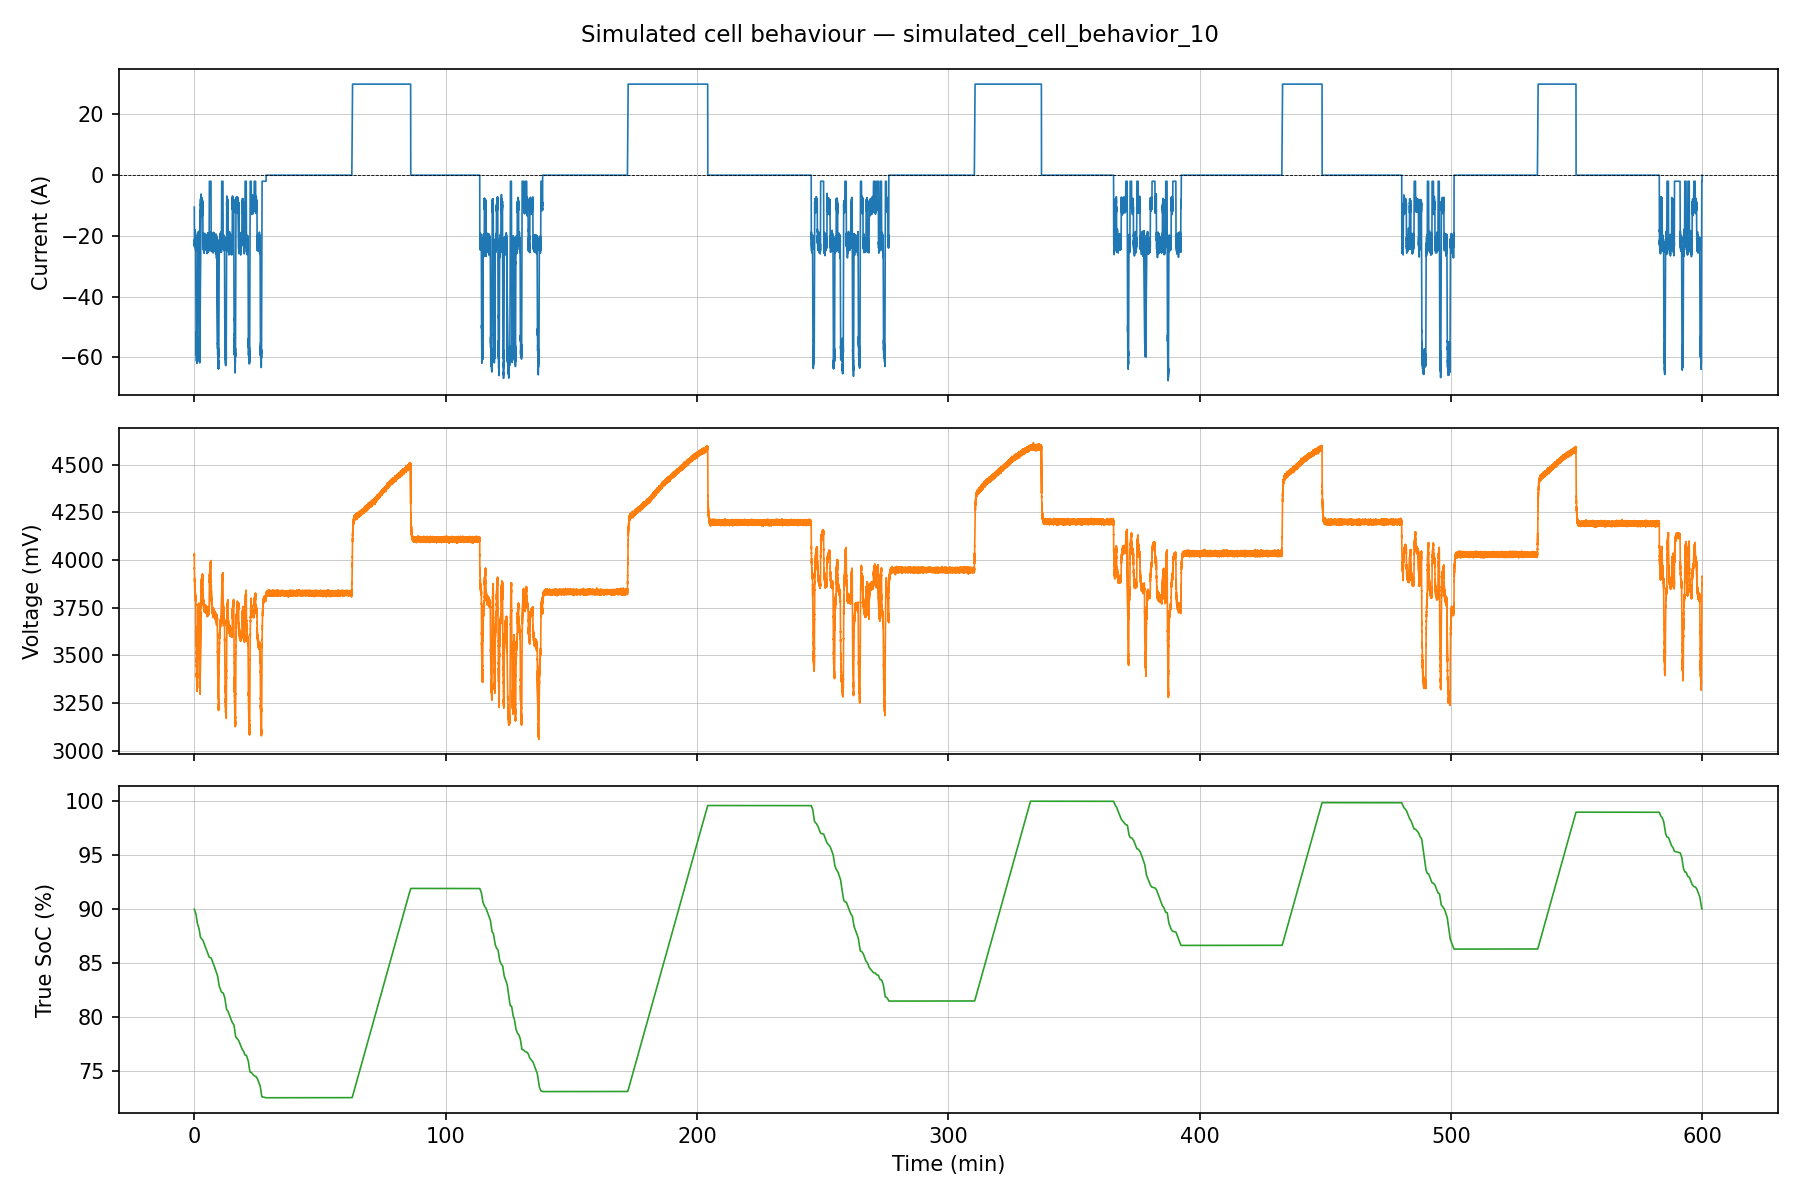
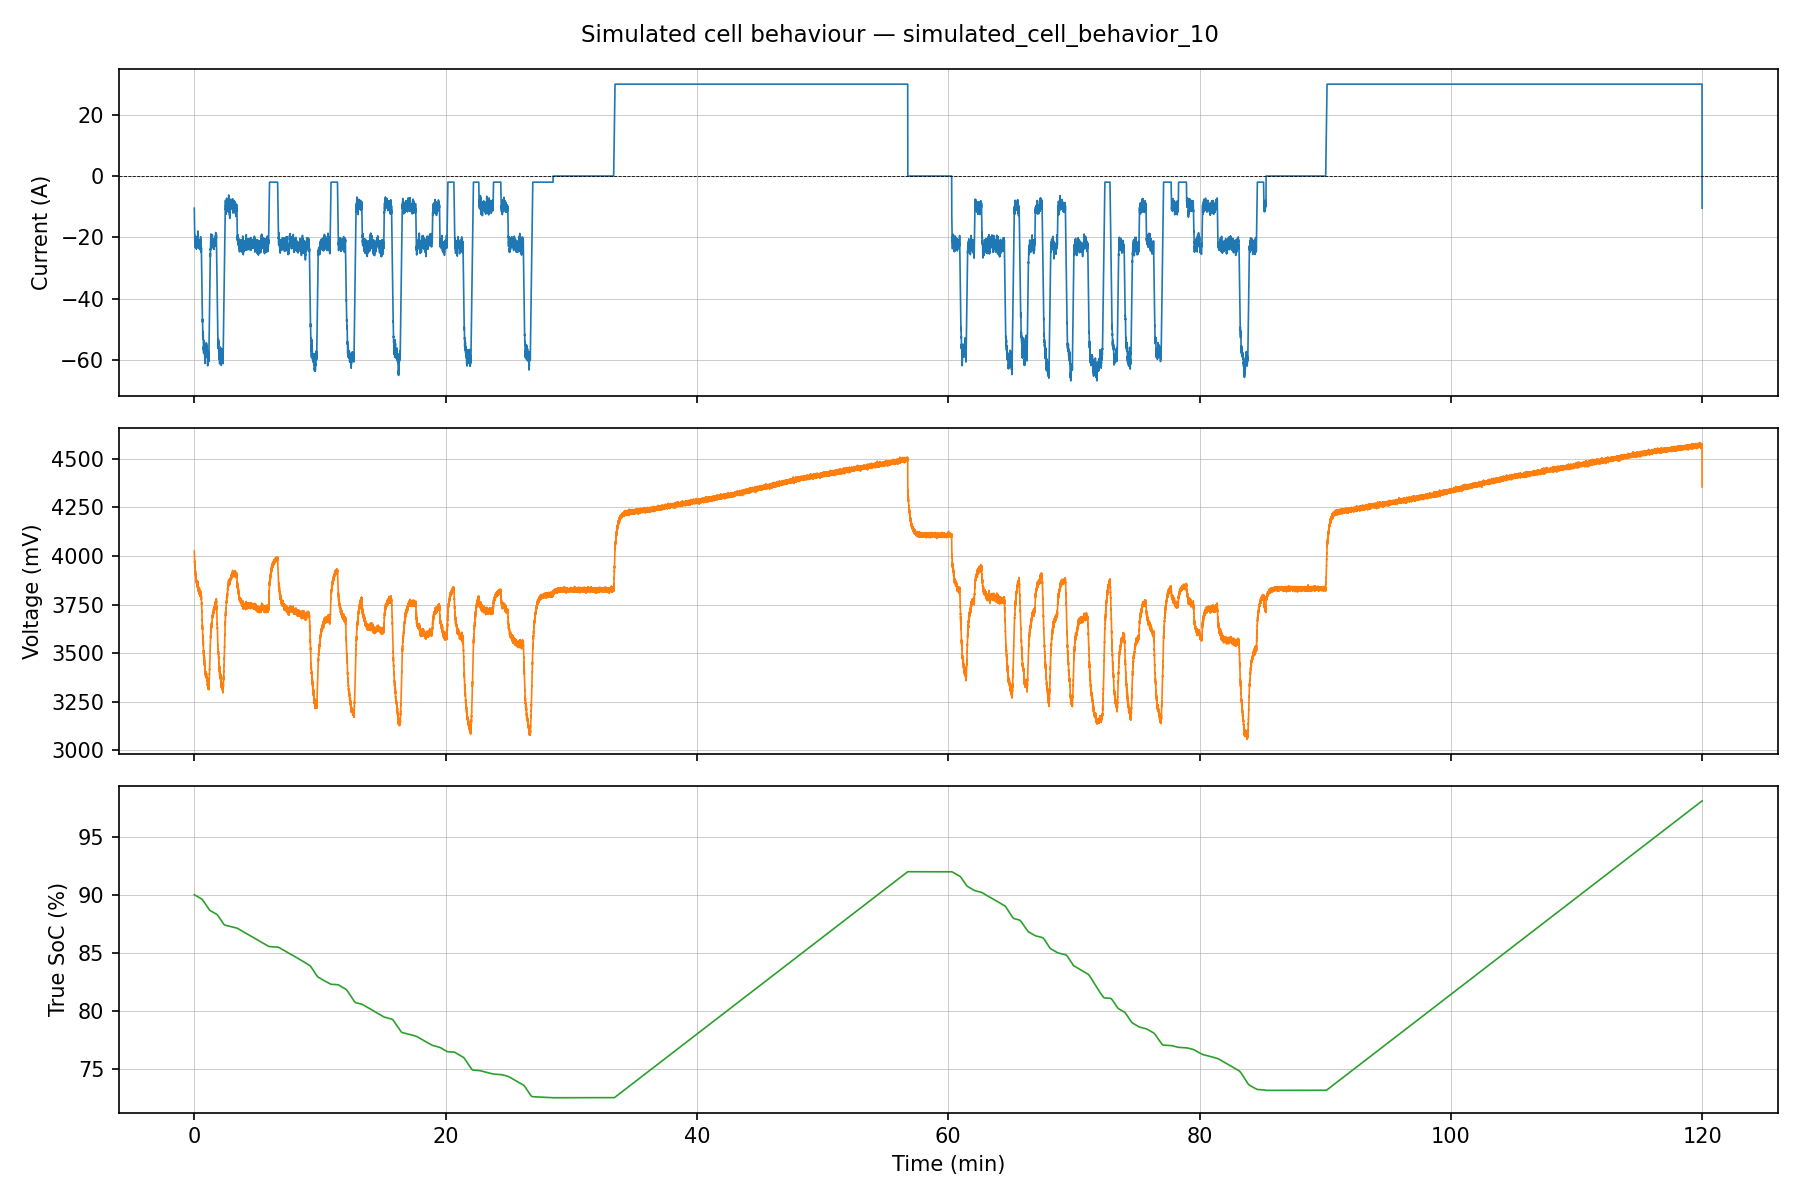
feat: implementation of fine grain parametrization of discharge cycles, data folder creation and some simulation tests

diff --git a/scripts/simulate_cell.py b/scripts/simulate_cell.py
@@ -110,44 +110,63 @@ def _apply_slew(current: float, target: float, max_delta: float) -> float:
 
 # This function was designed for EV-like behavior, thus the states "accelerate, regen" etc
 # As I don't want regen behavior in my case, I put regen weight to 0 here
-def generate_discharge_cycle(duration_s: int, dt: float = 0.1) -> list:
+def generate_discharge_cycle(
+    duration_s: int,
+    dt: float = 0.1,
+    discharge_slew_rate: float = DISCHARGE_MAX_SLEW,
+    state_duration_min_s: float = 30.0,
+    state_duration_max_s: float = 300.0,
+    discharge_state_weights: list = None,
+    idle_current: float = -2.0,
+    accelerate_current_min: float = -80.0,
+    accelerate_current_max: float = -40.0,
+    cruise_current_min: float = -30.0,
+    cruise_current_max: float = -15.0,
+    decelerate_current_min: float = -15.0,
+    decelerate_current_max: float = -5.0,
+    regen_current_min: float = 10.0,
+    regen_current_max: float = 40.0,
+) -> list:
     """
     Generate a synthetic WLTP-inspired current profile.
     Positive = charge (regen), Negative = discharge (driving).
     """
+    if discharge_state_weights is None:
+        discharge_state_weights = DISCHARGE_STATE_WEIGHTS
+
     steps = int(duration_s / dt)
     profile = []
     t = 0.0
 
     state = 'cruise'
     state_timer = 0.0
-    current = -10.0     # Start with mild discharge
-    max_slew = DISCHARGE_MAX_SLEW * dt
+    current = (cruise_current_min + cruise_current_max) / 2.0
+    max_slew = discharge_slew_rate * dt
 
     for _ in range(steps):
         state_timer += dt
 
         # State transitions
-        if state_timer > DEFAULT_DISCHARGE_STATE_DURATION_DISTRIB():
+        if state_timer > random.uniform(state_duration_min_s, state_duration_max_s):
             state = random.choices(
                 ['cruise', 'accelerate', 'decelerate', 'regen', 'idle'],
-                weights= DISCHARGE_STATE_WEIGHTS
+                weights=discharge_state_weights,
             )[0]
             state_timer = 0.0
 
         # Current target per state
         if state == 'idle':
-            target_current = -2.0
+            target_current = idle_current
         elif state == 'accelerate':
-            target_current = random.uniform(-80.0, -40.0)
+            target_current = random.uniform(accelerate_current_min, accelerate_current_max)
         elif state == 'cruise':
-            target_current = random.uniform(-30.0, -15.0)
+            target_current = random.uniform(cruise_current_min, cruise_current_max)
         elif state == 'decelerate':
-            target_current = random.uniform(-15.0, -5.0)
+            target_current = random.uniform(decelerate_current_min, decelerate_current_max)
         elif state == 'regen':
-            target_current = random.uniform(10.0, 40.0)
+            target_current = random.uniform(regen_current_min, regen_current_max)
         else:
-            target_current = -10.0
+            target_current = idle_current
 
         current = _apply_slew(current, target_current, max_slew)
         profile.append((round(t, 2), round(current, 2)))
@@ -193,6 +212,8 @@ def generate_mixed_cycles(
     rest_duration_std_s: float = DEFAULT_MIXED_REST_DURATION_STD_S,
     # Which phase starts the sequence
     first_phase: str = DEFAULT_MIXED_FIRST_PHASE,
+    # Discharge cycle distribution parameters (forwarded to generate_discharge_cycle)
+    **discharge_kwargs,
 ) -> list:
     """
     Concatenate alternating discharge and charge sub-cycles separated by rest
@@ -215,7 +236,7 @@ def generate_mixed_cycles(
         if phase == 'discharge':
             raw_duration = random.gauss(discharge_duration_mean_s, discharge_duration_std_s)
             duration_s   = int(max(MIN_SUB_DURATION_S, min(remaining, raw_duration)))
-            sub_cycle     = generate_discharge_cycle(duration_s, dt)
+            sub_cycle     = generate_discharge_cycle(duration_s, dt, **discharge_kwargs)
         else:
             raw_duration = random.gauss(charge_duration_mean_s, charge_duration_std_s)
             duration_s   = int(max(MIN_SUB_DURATION_S, min(remaining, raw_duration)))
@@ -269,13 +290,22 @@ def simulate(capacity_ah: float, duration_s: int, initial_soc: float = 90.0,
         'charge_duration_mean_s', 'charge_duration_std_s',
         'rest_duration_mean_s', 'rest_duration_std_s', 'first_phase',
     }
-    mixed_kwargs  = {k: v for k, v in charge_kwargs.items() if k in _MIXED_KEYS}
-    charge_kwargs = {k: v for k, v in charge_kwargs.items() if k not in _MIXED_KEYS}
+    _DISCHARGE_KEYS = {
+        'discharge_slew_rate', 'state_duration_min_s', 'state_duration_max_s',
+        'discharge_state_weights', 'idle_current',
+        'accelerate_current_min', 'accelerate_current_max',
+        'cruise_current_min', 'cruise_current_max',
+        'decelerate_current_min', 'decelerate_current_max',
+        'regen_current_min', 'regen_current_max',
+    }
+    mixed_kwargs     = {k: v for k, v in charge_kwargs.items() if k in _MIXED_KEYS}
+    discharge_kwargs = {k: v for k, v in charge_kwargs.items() if k in _DISCHARGE_KEYS}
+    charge_kwargs    = {k: v for k, v in charge_kwargs.items() if k not in _MIXED_KEYS and k not in _DISCHARGE_KEYS}
 
     if profile_mode == 'discharge':
-        profile = generate_discharge_cycle(duration_s, dt)
+        profile = generate_discharge_cycle(duration_s, dt, **discharge_kwargs)
     elif profile_mode == 'mixed':
-        profile = generate_mixed_cycles(duration_s, dt, **mixed_kwargs, **charge_kwargs)
+        profile = generate_mixed_cycles(duration_s, dt, **mixed_kwargs, **charge_kwargs, **discharge_kwargs)
     else:  # CC charge
         profile = generate_charge_cycle(duration_s, dt, **charge_kwargs)
 
@@ -336,6 +366,36 @@ def main():
     parser.add_argument('--slew-rate',      type=float, default=CHARGE_MAX_SLEW,
                         help='Charge current ramp rate [A/s]')
 
+    # Discharge-specific arguments (used when --profile is discharge or mixed)
+    parser.add_argument('--discharge-slew-rate',          type=float, default=DISCHARGE_MAX_SLEW,
+                        help='Discharge current ramp rate [A/s]')
+    parser.add_argument('--discharge-state-duration-min', type=float, default=30.0,
+                        help='Min duration of each discharge state [s]')
+    parser.add_argument('--discharge-state-duration-max', type=float, default=300.0,
+                        help='Max duration of each discharge state [s]')
+    parser.add_argument('--discharge-state-weights',      type=float, nargs=5,
+                        default=DISCHARGE_STATE_WEIGHTS,
+                        metavar=('CRUISE', 'ACCEL', 'DECEL', 'REGEN', 'IDLE'),
+                        help='Relative weights for discharge states [cruise accel decel regen idle]')
+    parser.add_argument('--discharge-idle-current',       type=float, default=-2.0,
+                        help='Target current in idle state [A]')
+    parser.add_argument('--discharge-accelerate-min',     type=float, default=-80.0,
+                        help='Min current in accelerate state [A]')
+    parser.add_argument('--discharge-accelerate-max',     type=float, default=-40.0,
+                        help='Max current in accelerate state [A]')
+    parser.add_argument('--discharge-cruise-min',         type=float, default=-30.0,
+                        help='Min current in cruise state [A]')
+    parser.add_argument('--discharge-cruise-max',         type=float, default=-15.0,
+                        help='Max current in cruise state [A]')
+    parser.add_argument('--discharge-decelerate-min',     type=float, default=-15.0,
+                        help='Min current in decelerate state [A]')
+    parser.add_argument('--discharge-decelerate-max',     type=float, default=-5.0,
+                        help='Max current in decelerate state [A]')
+    parser.add_argument('--discharge-regen-min',          type=float, default=10.0,
+                        help='Min current in regen state [A]')
+    parser.add_argument('--discharge-regen-max',          type=float, default=40.0,
+                        help='Max current in regen state [A]')
+
     # Mixed-profile arguments (used when --profile is mixed)
     parser.add_argument('--discharge-duration-mean', type=float,
                         default=DEFAULT_MIXED_DISCHARGE_DURATION_MEAN_S,
@@ -384,6 +444,20 @@ def main():
         rest_duration_mean_s=args.rest_duration_mean,
         rest_duration_std_s=args.rest_duration_std,
         first_phase=args.first_phase,
+        # discharge distribution params (discharge and mixed)
+        discharge_slew_rate=args.discharge_slew_rate,
+        state_duration_min_s=args.discharge_state_duration_min,
+        state_duration_max_s=args.discharge_state_duration_max,
+        discharge_state_weights=args.discharge_state_weights,
+        idle_current=args.discharge_idle_current,
+        accelerate_current_min=args.discharge_accelerate_min,
+        accelerate_current_max=args.discharge_accelerate_max,
+        cruise_current_min=args.discharge_cruise_min,
+        cruise_current_max=args.discharge_cruise_max,
+        decelerate_current_min=args.discharge_decelerate_min,
+        decelerate_current_max=args.discharge_decelerate_max,
+        regen_current_min=args.discharge_regen_min,
+        regen_current_max=args.discharge_regen_max,
     )
 
     # ---- Output CSV generation ----